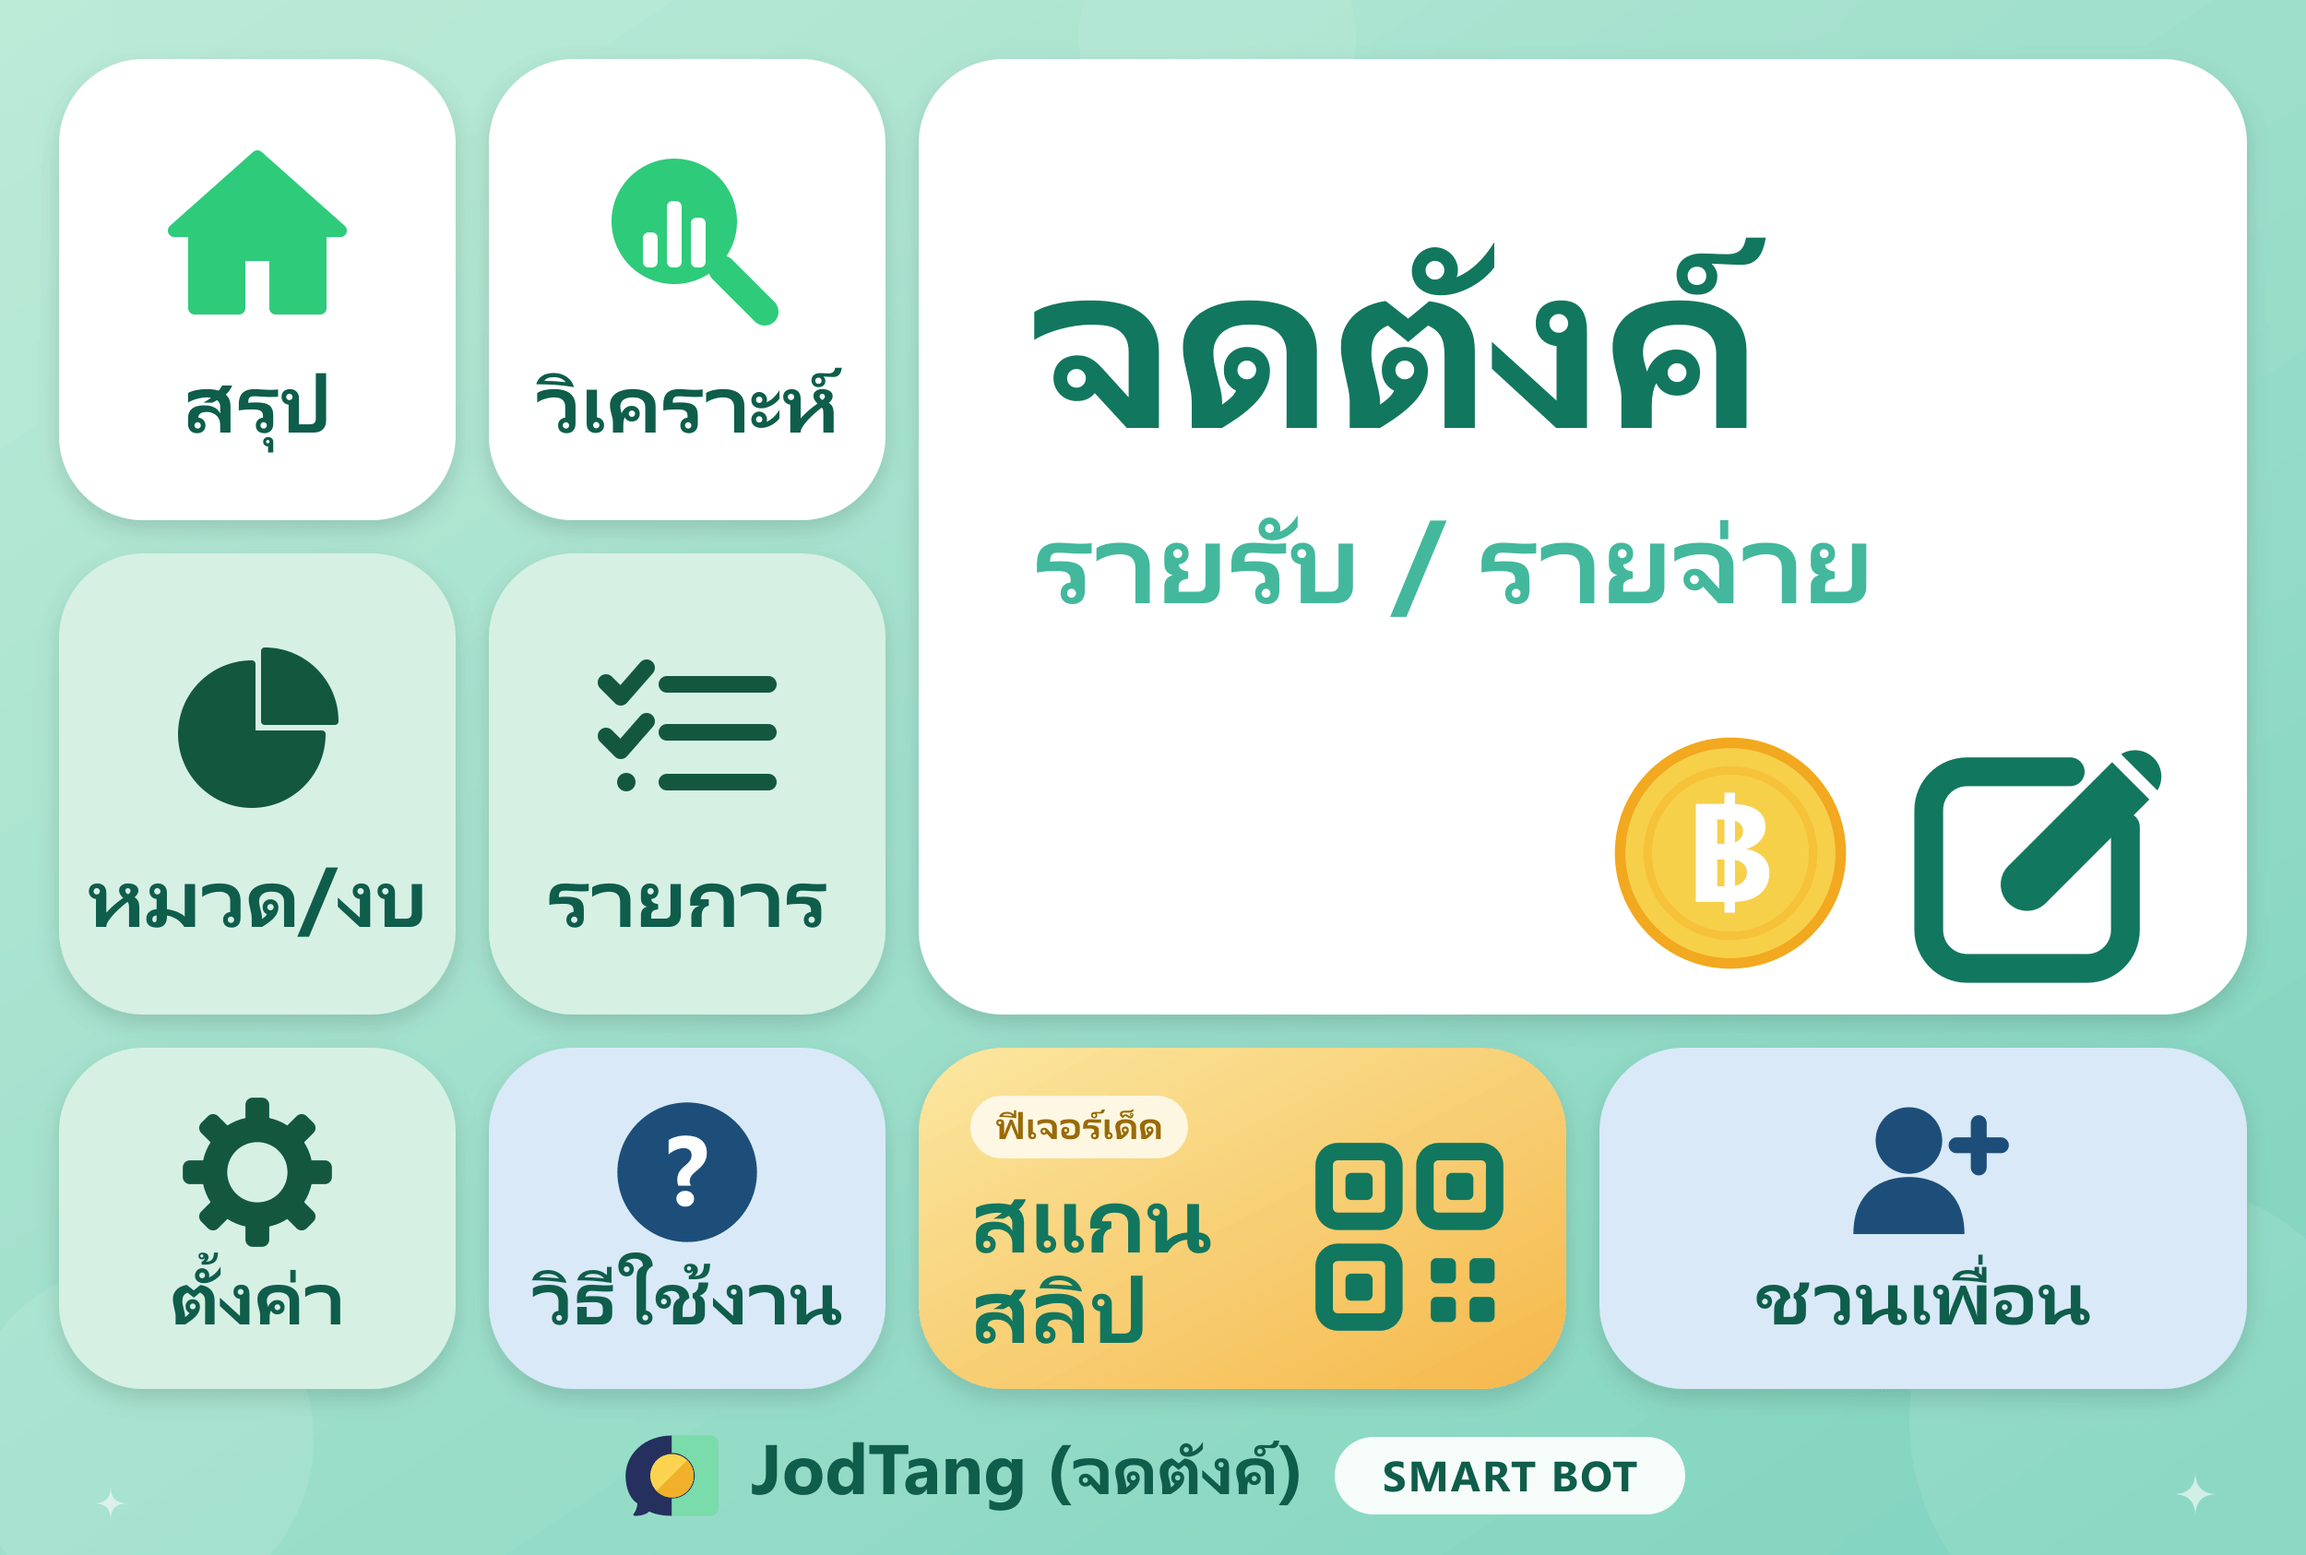
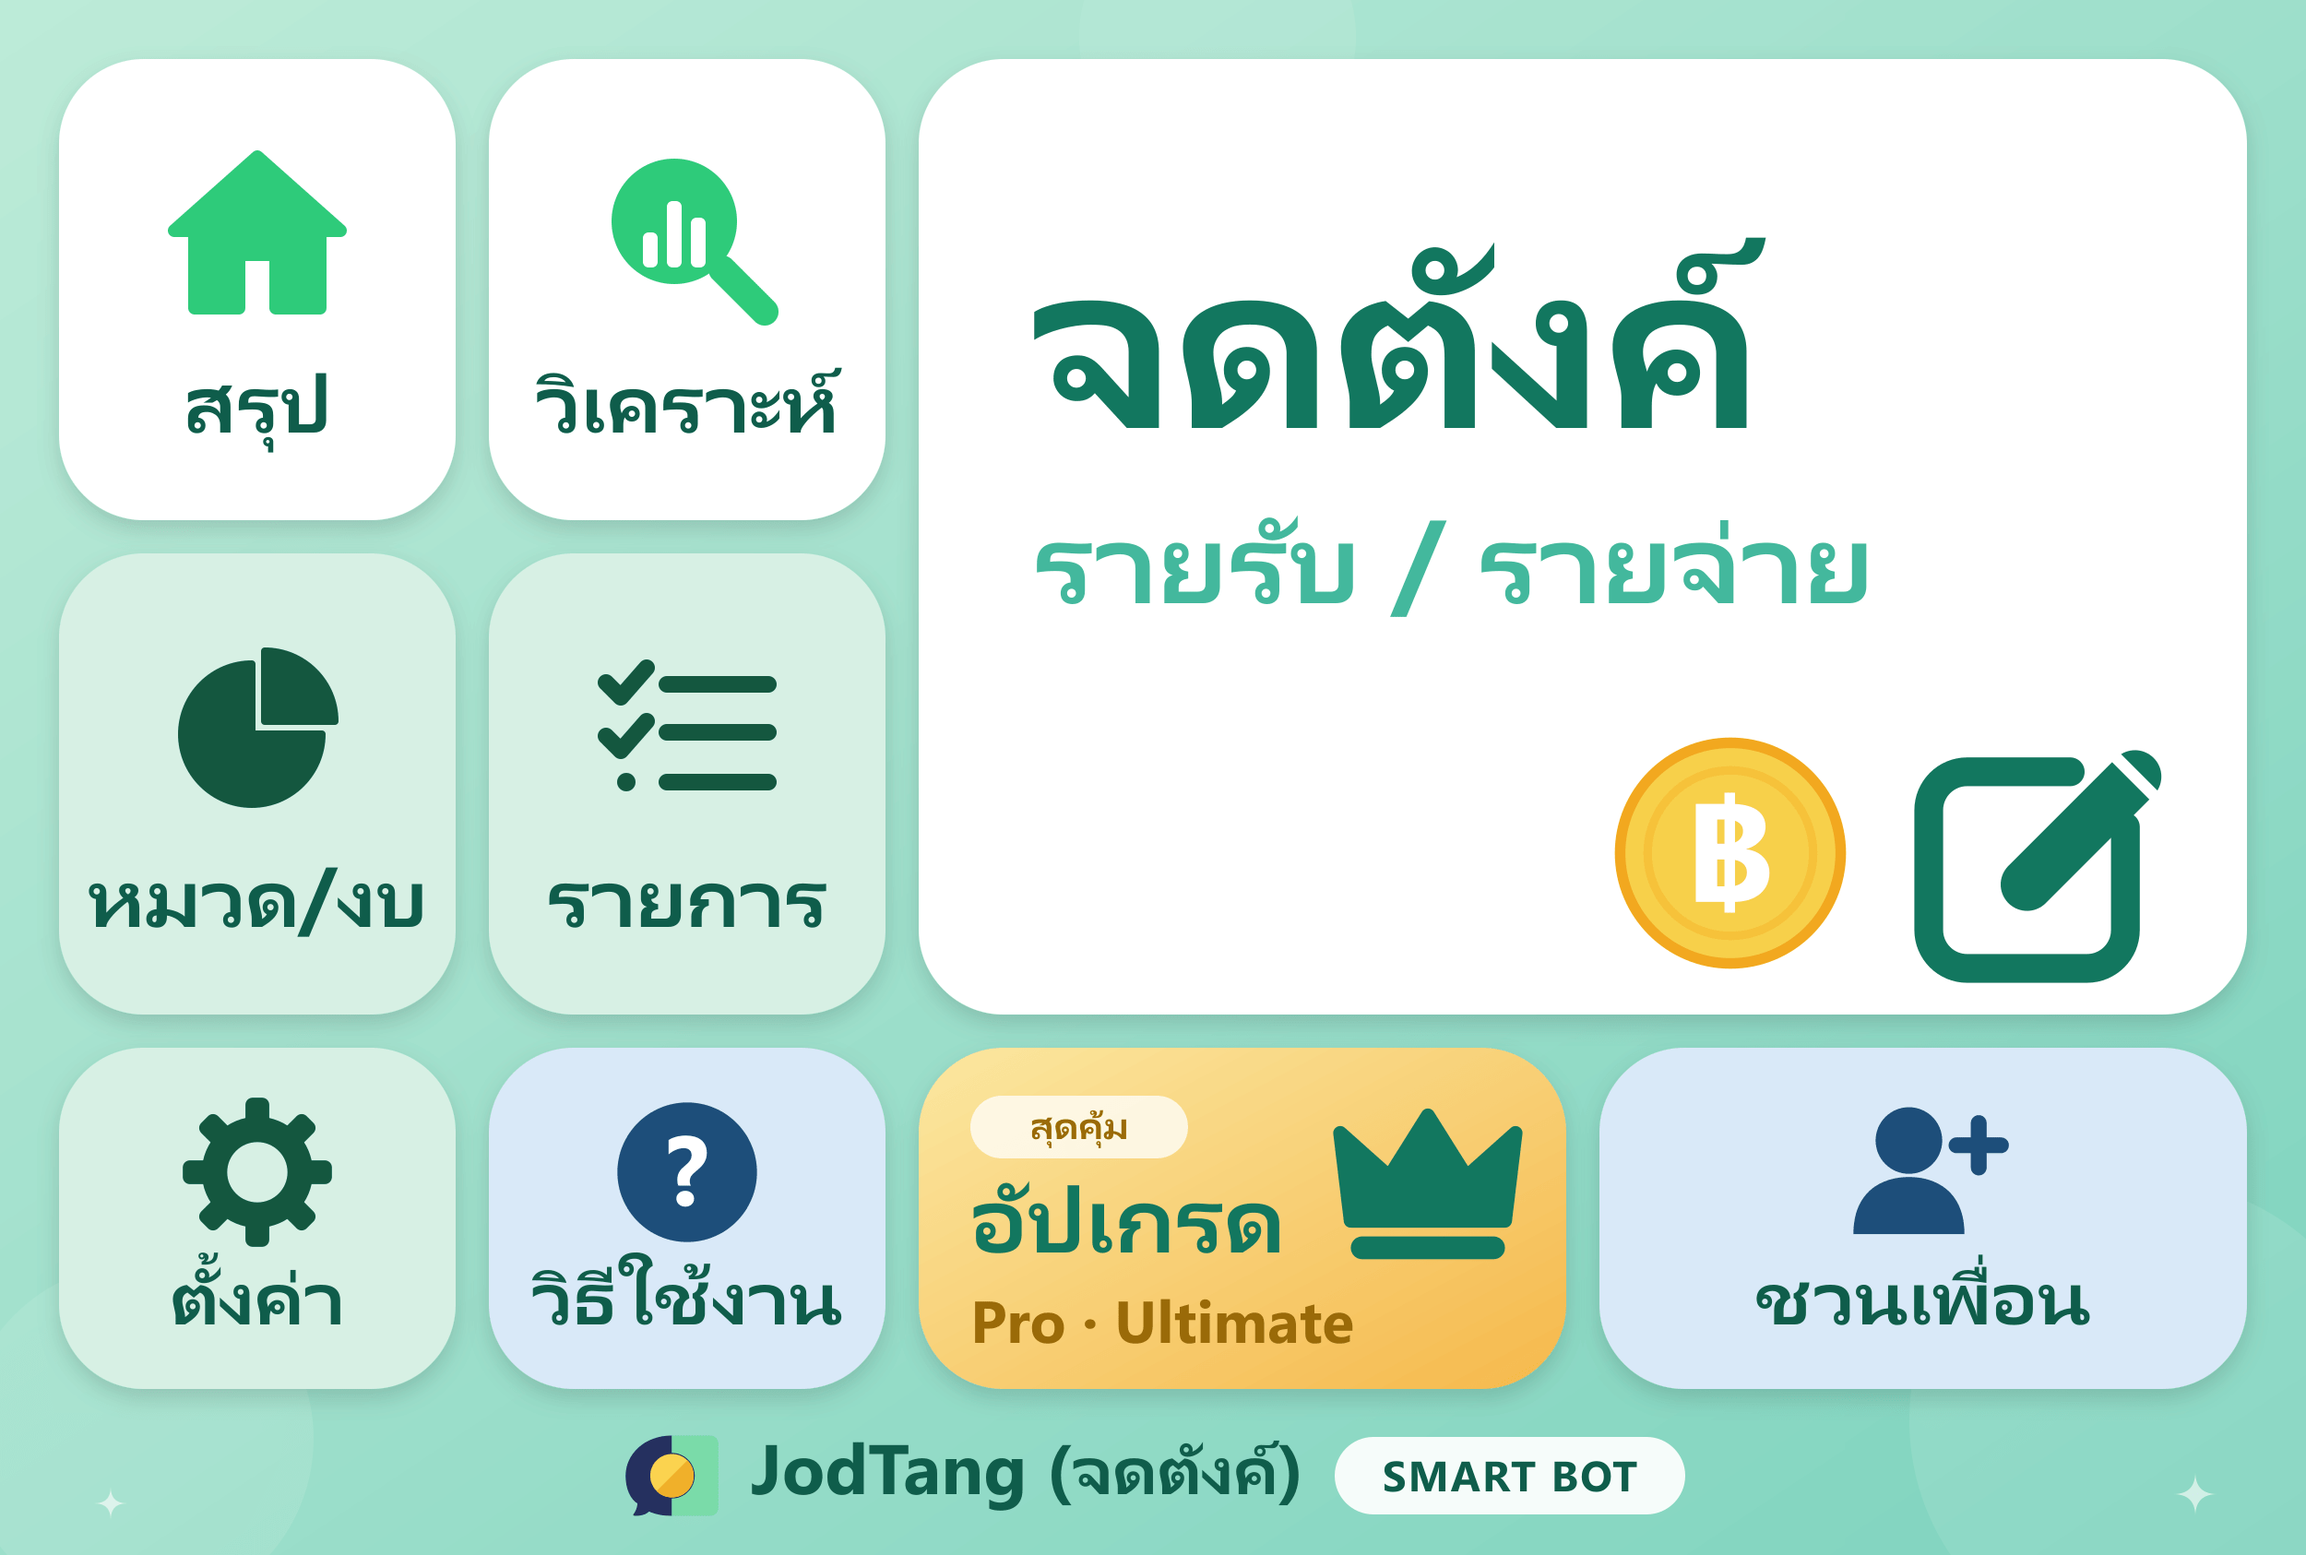
feat(richmenu): replace the scan-slip tile with an upgrade tile

Changed region(s): [[0.4056, 0.7094, 0.6552, 0.8636]]

diff --git a/scripts/richmenu-design.ts b/scripts/richmenu-design.ts
@@ -7,7 +7,7 @@
  *   ├────┼────┤  รายรับ / รายจ่าย    │
  *   │หมวด│รายการ│                      │
  *   ├────┼────┼───────────┬──────────┤
- *   │ตั้งค่า│วิธีใช้│ สแกนสลิป │ ชวนเพื่อน │
+ *   │ตั้งค่า│วิธีใช้│ อัปเกรด  │ ชวนเพื่อน │
  *   └────┴────┴───────────┴──────────┘
  */
 export const RICH_MENU_WIDTH = 2500;
@@ -28,7 +28,7 @@ export type TileKey =
   | "settings"
   | "help"
   | "compose"
-  | "slip"
+  | "upgrade"
   | "invite";
 
 export interface Tile {
@@ -69,7 +69,7 @@ export const TILES: Tile[] = [
     label: "จดรายการ",
     bounds: rect(COL_BIG, ROW_Y[0], BIG_W, ROW_H[0] + G + ROW_H[1]),
   },
-  { key: "slip", label: "สแกนสลิป", bounds: rect(COL_BIG, ROW_Y[2], HALF_W, ROW_H[2]) },
+  { key: "upgrade", label: "อัปเกรด", bounds: rect(COL_BIG, ROW_Y[2], HALF_W, ROW_H[2]) },
   {
     key: "invite",
     label: "ชวนเพื่อน",
@@ -142,6 +142,8 @@ const ICONS: Record<string, string> = {
   coin: `<circle r="104" fill="${C.gold}" stroke="${C.goldEdge}" stroke-width="10"/>
     <circle r="78" fill="none" stroke="${C.goldEdge}" stroke-opacity="0.35" stroke-width="8"/>
     <text y="46" text-anchor="middle" font-family="${FONT}" font-size="132" font-weight="800" fill="${C.white}">฿</text>`,
+  crown: `<path d="M-88 50 L-100 -50 L-44 0 L0 -70 L44 0 L100 -50 L88 50 Z" fill="${C.teal}" stroke="${C.teal}" stroke-width="16" stroke-linejoin="round"/>
+    <rect x="-88" y="68" width="176" height="26" rx="13" fill="${C.teal}"/>`,
   edit: `<path d="M64 -18 V68 A32 32 0 0 1 32 100 H-68 A32 32 0 0 1 -100 68 V-32 A32 32 0 0 1 -68 -64 H18" fill="none" stroke="${C.teal}" stroke-width="24" stroke-linecap="round"/>
     <path d="M-18 30 L72 -60" stroke="${C.teal}" stroke-width="44" stroke-linecap="round"/>
     <path d="M52 -80 L92 -40" stroke="${C.white}" stroke-width="10" stroke-linecap="round"/>`,
@@ -200,7 +202,7 @@ export function buildRichMenuSvg(): string {
   };
 
   const big = t("compose");
-  const slip = t("slip");
+  const up = t("upgrade");
 
   const parts: string[] = [
     `<svg xmlns="http://www.w3.org/2000/svg" width="${RICH_MENU_WIDTH}" height="${RICH_MENU_HEIGHT}" viewBox="0 0 ${RICH_MENU_WIDTH} ${RICH_MENU_HEIGHT}">`,
@@ -241,14 +243,13 @@ export function buildRichMenuSvg(): string {
     spark(big.x + big.width - 150, big.y + 130, 46, 0.9),
     spark(big.x + big.width - 280, big.y + 210, 26, 0.7),
 
-    // scan-slip tile (butter yellow)
-    tileBox(slip, "url(#butter)"),
-    `<rect x="${slip.x + 56}" y="${slip.y + 52}" width="236" height="68" rx="34" fill="${C.white}" fill-opacity="0.75"/>`,
-    `<text x="${slip.x + 174}" y="${slip.y + 99}" text-anchor="middle" font-family="${FONT}" font-size="42" font-weight="800" fill="#9A6A08">ฟีเจอร์เด็ด</text>`,
-    `<text x="${slip.x + 56}" y="${slip.y + 222}" font-family="${FONT}" font-size="104" font-weight="900" fill="${C.teal}">สแกน</text>`,
-    `<text x="${slip.x + 56}" y="${slip.y + 320}" font-family="${FONT}" font-size="104" font-weight="900" fill="${C.teal}">สลิป</text>`,
-    icon("qr", slip.x + slip.width - 170, slip.y + 205, 1.05),
-
+    // upgrade tile (butter yellow)
+    tileBox(up, "url(#butter)"),
+    `<rect x="${up.x + 56}" y="${up.y + 52}" width="236" height="68" rx="34" fill="${C.white}" fill-opacity="0.75"/>`,
+    `<text x="${up.x + 174}" y="${up.y + 99}" text-anchor="middle" font-family="${FONT}" font-size="42" font-weight="800" fill="#9A6A08">สุดคุ้ม</text>`,
+    `<text x="${up.x + 56}" y="${up.y + 222}" font-family="${FONT}" font-size="104" font-weight="900" fill="${C.teal}">อัปเกรด</text>`,
+    `<text x="${up.x + 56}" y="${up.y + 320}" font-family="${FONT}" font-size="64" font-weight="800" fill="#9A6A08">Pro · Ultimate</text>`,
+    icon("crown", up.x + up.width - 150, up.y + 140, 0.95),
     // invite tile
     small("invite", C.skyTile, "invite", "ชวนเพื่อน", true),
   ];

diff --git a/scripts/create-richmenu.ts b/scripts/create-richmenu.ts
@@ -32,6 +32,7 @@ const LIFF_PAGES: Partial<Record<TileKey, string>> = {
   budgets: "budgets",
   transactions: "transactions",
   settings: "settings",
+  upgrade: "upgrade",
 };
 
 const INVITE_TEXT = "มาจดรายรับรายจ่ายง่าย ๆ ในไลน์กับจดตังค์ (JodTang) ด้วยกันนะ";
@@ -126,9 +127,6 @@ async function main() {
       case "help":
         // sends "ช่วยเหลือ" as the user's message; the bot answers with the usage guide
         return { type: "message", label, text: "ช่วยเหลือ" };
-      case "slip":
-        // most Thai slips are screenshots, so open the photo library; the image goes to the chat
-        return { type: "cameraRoll", label };
       case "invite":
         // share text + LIFF link (Bot link "aggressive" prompts non-friends to add the account)
         return {

diff --git a/docs/PROJECT-STATUS.md b/docs/PROJECT-STATUS.md
@@ -111,7 +111,7 @@ supabase/migrations/0001..0004
 - **Supabase:** ต้องรัน migrations ตามลำดับ `0001` → `0007` (รันซ้ำได้) ผ่าน SQL Editor หรือ `supabase db push`
   - `0004` เพิ่ม `user_settings.budget_mode`, ตาราง `category_overrides`, RPC `analytics_series`
 - **Rich Menu:** `pnpm richmenu --replace` (อ่าน `.env.local`) — เผยแพร่แล้ว 1 ชุดชื่อ `meetang-main` (แบบ 6 ช่องเดิม)
-  ดีไซน์ใหม่ 9 ช่อง (พาสเทลมิ้นต์: จดตังค์/สรุป/วิเคราะห์/หมวด-งบ/รายการ/ตั้งค่า/วิธีใช้งาน/สแกนสลิป/ชวนเพื่อน)
+  ดีไซน์ใหม่ 9 ช่อง (พาสเทลมิ้นต์: จดตังค์/สรุป/วิเคราะห์/หมวด-งบ/รายการ/ตั้งค่า/วิธีใช้งาน/อัปเกรด/ชวนเพื่อน)
   อยู่ใน repo แล้ว **แต่ต้องรัน `--replace` ใหม่** ถึงจะขึ้นใน LINE (ชื่อเมนูใหม่ `jodtang-main`)
   หมายเหตุ: Node หลัง proxy ต้องตั้ง `NODE_USE_ENV_PROXY=1`
 - Repo: `stsmcp101-source/JodTang` (branch `main`) · Vercel deploy อัตโนมัติจาก push

diff --git a/README.md b/README.md
@@ -167,7 +167,7 @@ pnpm richmenu --replace   # สร้างเมนู อัปโหลดภ
 | จดตังค์ (ช่องใหญ่) | เปิดคีย์บอร์ดพร้อมข้อความตั้งต้น + คำแนะนำสั้น ๆ จากบอท |
 | สรุป / วิเคราะห์ / หมวด/งบ / รายการ / ตั้งค่า | เปิดหน้า LIFF ตามชื่อ |
 | วิธีใช้งาน | ส่งข้อความ "ช่วยเหลือ" ให้บอทตอบวิธีใช้ |
-| สแกนสลิป | เปิดคลังรูปภาพเพื่อเลือกสลิป (ส่งเข้าแชท → บอทอ่านสลิป) |
+| อัปเกรด | เปิดหน้า `/upgrade` (แผน Free / Professional / Ultimate) — ส่งรูปสลิปเข้าแชทได้ตามปกติ |
 | ชวนเพื่อน | เปิดหน้าแชร์ของ LINE พร้อมข้อความ + ลิงก์ LIFF (ระบบ referral/โค้ดชวนจริงอยู่ Phase 5) |
 
 ## API (ต้องแนบ `Authorization: Bearer <session>`)
